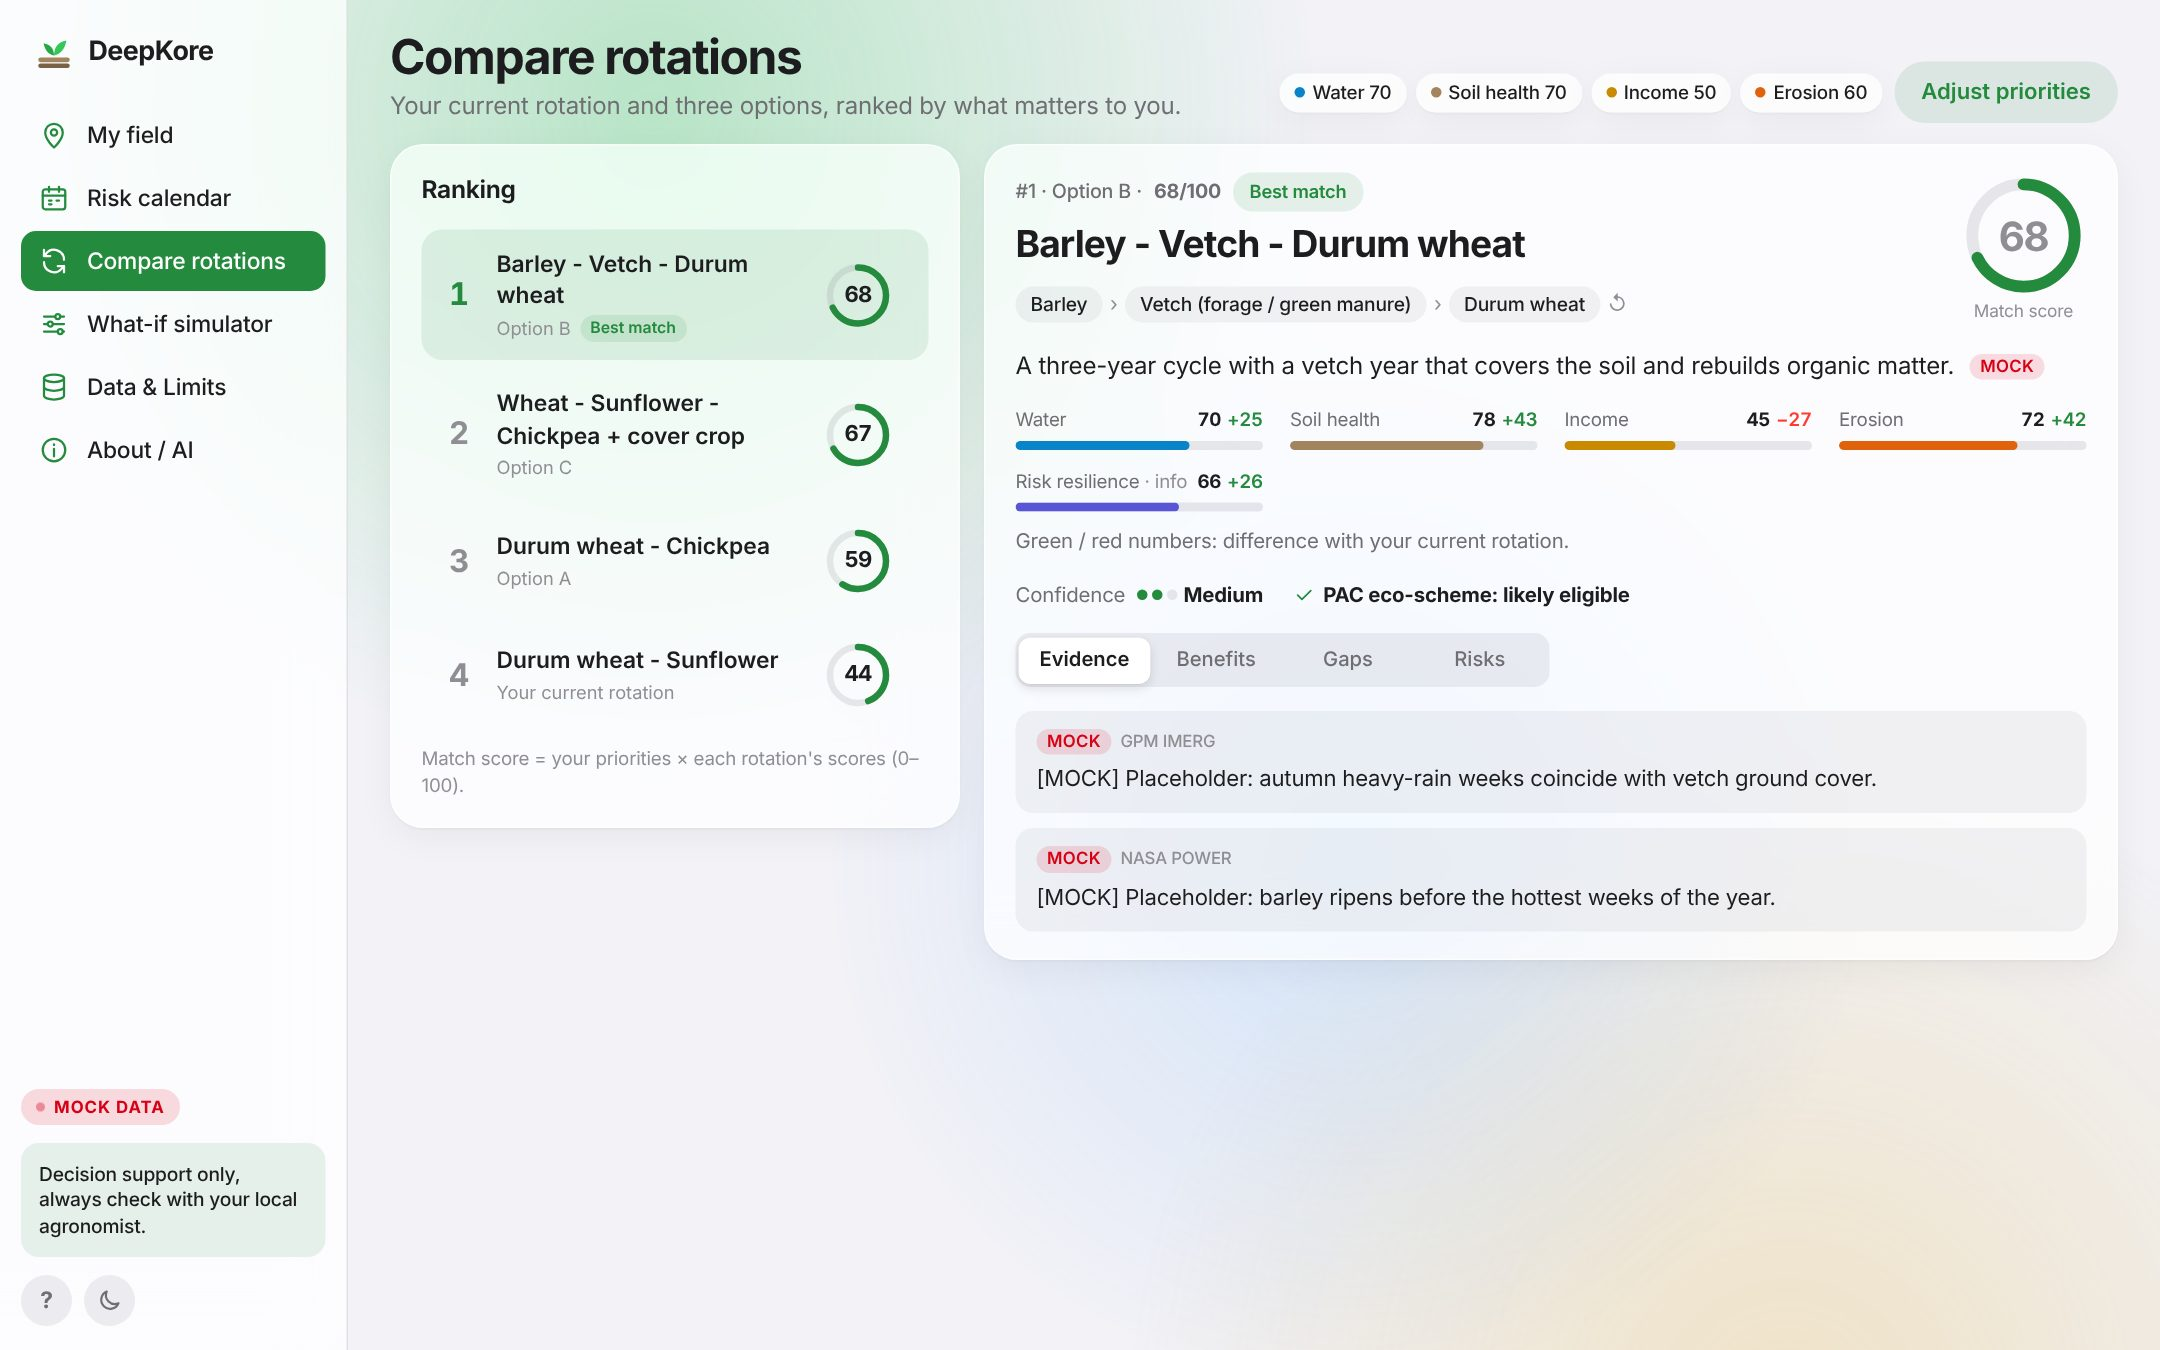
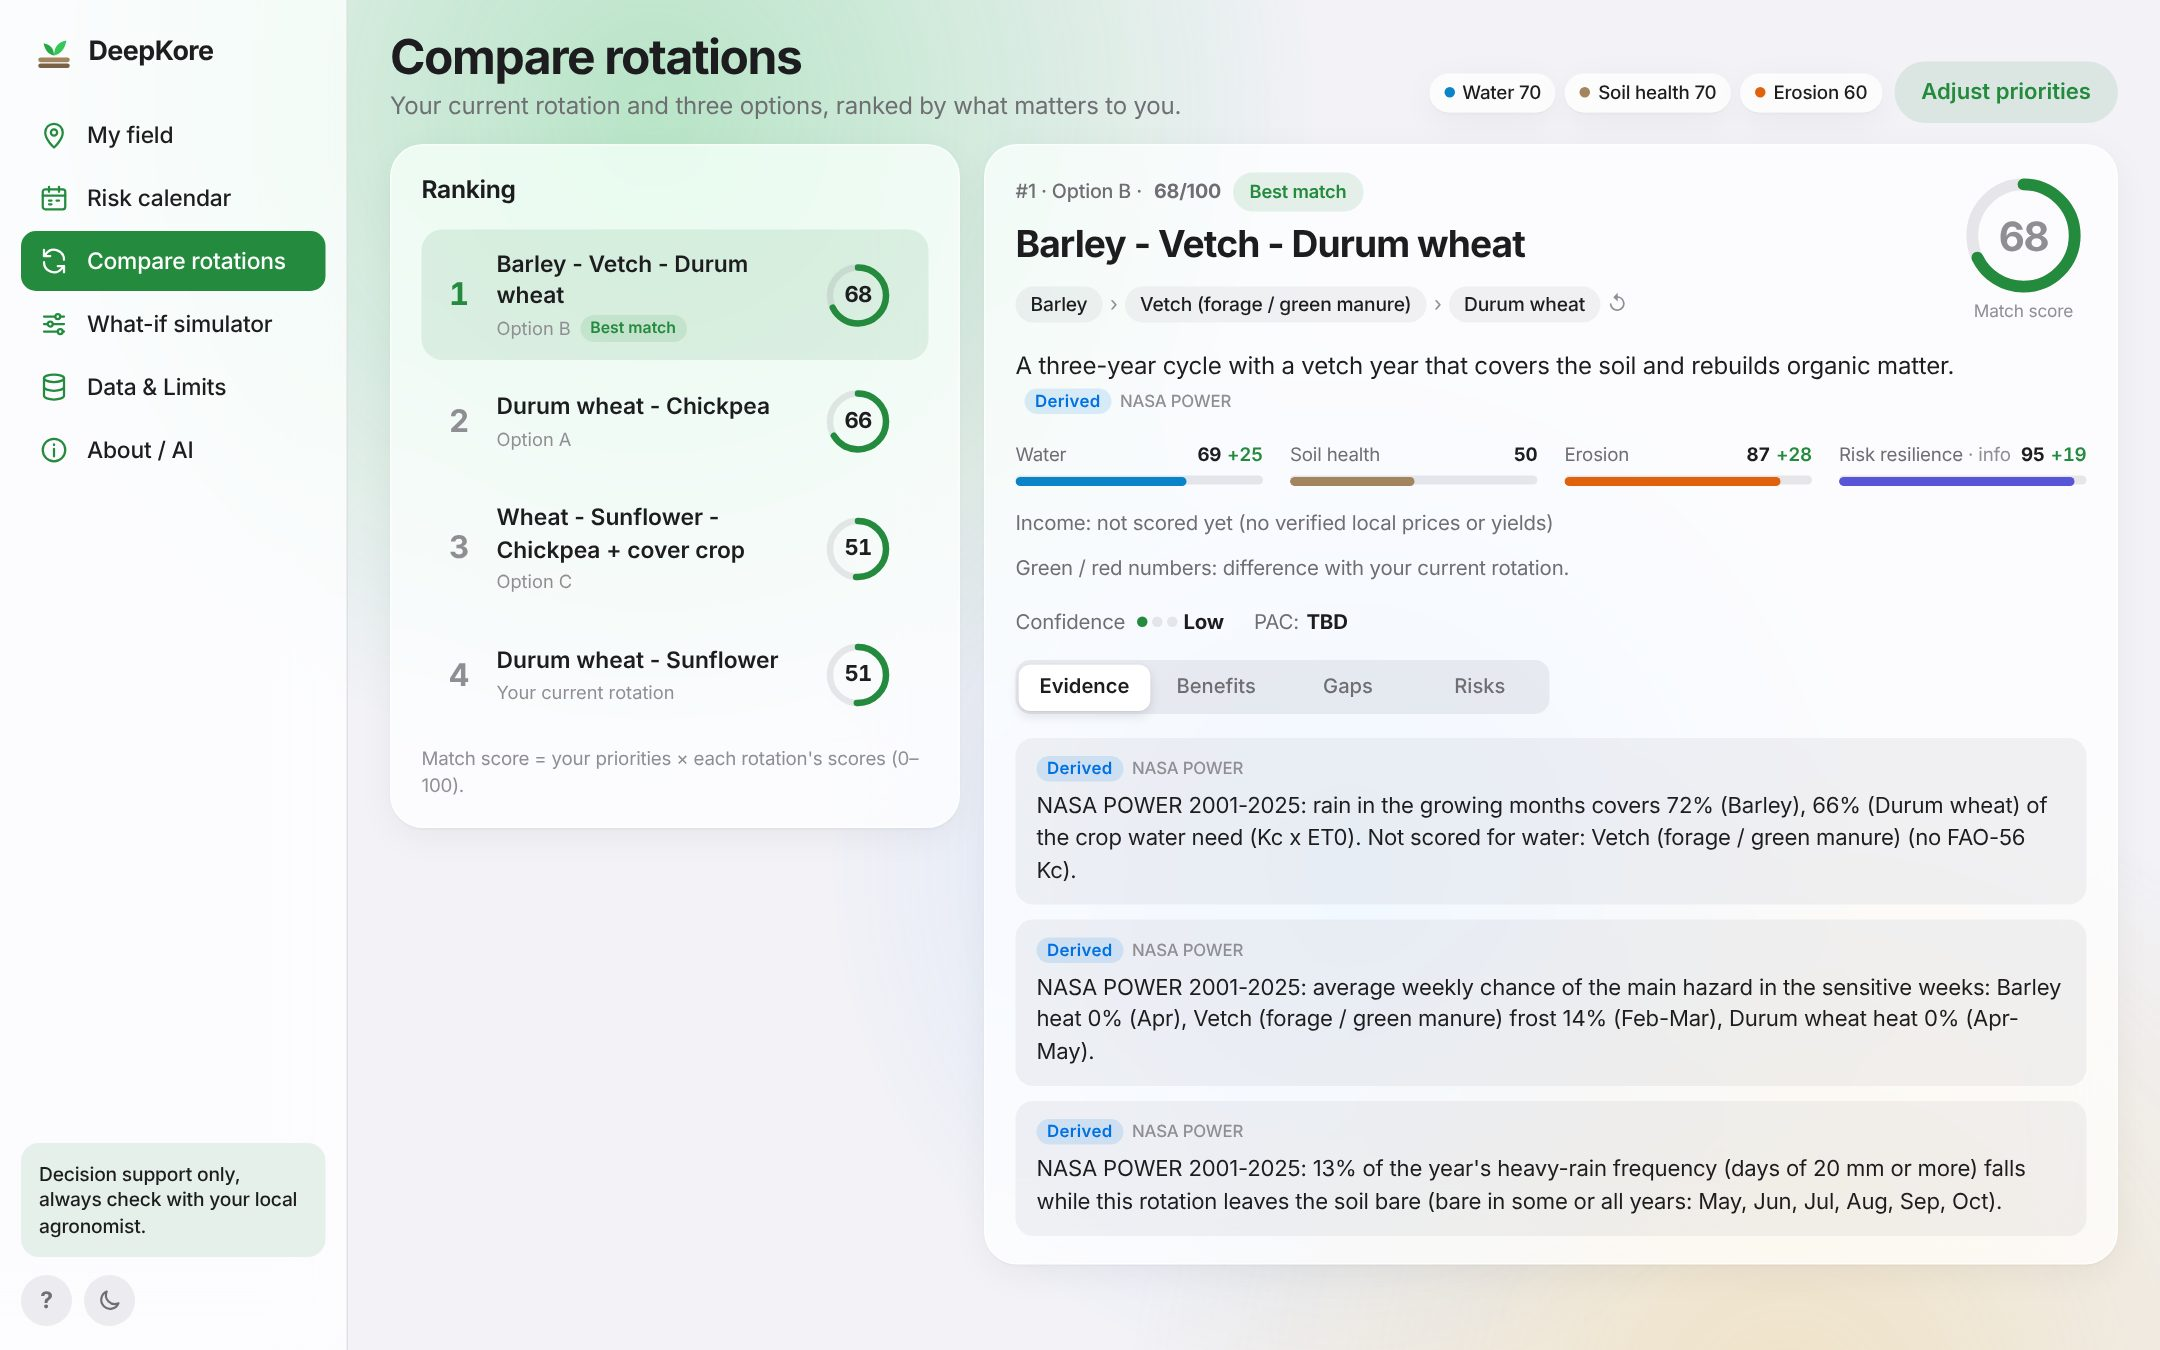
feat(pitch): real data in the result slide and screenshots
- Result slide uses the real rotations.json scores (51 -> 68 with default priorities);
  income is not scored yet, so Resilience is shown instead
- Screenshots retaken from the app running on real NASA POWER data
- Fix: 'Sample data' pill now hides when mock is false
- Script: slide 7 lines updated (income not scored yet)

Claude-Session: https://claude.ai/code/session_01D3Ytv4YFipRc5h3NFeBV3J

diff --git a/pitch/index.html b/pitch/index.html
@@ -201,6 +201,7 @@ p{margin:0}
 .bars s::before{content:'';display:block;height:100%;width:0;border-radius:9px;background:var(--k)}
 .on .bars s::before{animation:fill 1.4s cubic-bezier(.2,.8,.2,1) .9s forwards}
 @keyframes fill{to{width:var(--w)}}
+.pill[hidden]{display:none}
 .pill{display:inline-flex;align-items:center;gap:.4em;padding:.35em .8em;border-radius:999px;font:700 clamp(.66rem,.85vw,.85rem) var(--sans);background:rgba(200,100,63,.14);color:var(--clay);letter-spacing:.04em}
 .trust{margin-top:clamp(14px,1.8vw,26px);font:550 clamp(.9rem,1.25vw,1.25rem)/1.4 var(--sans);color:var(--mut)}
 .trust b{color:var(--greend)}
@@ -428,15 +429,15 @@ button:focus-visible{outline:2px solid var(--greend);outline-offset:3px}
 <script src="../vendor/qrcode/qrcode.js"></script>
 <script>
 /* ===================== Result slide data =====================
-   SAMPLE (MOCK) until the real rotations.json exists. Replace these numbers with the
-   ones shown in the app (Compare rotations) and set mock:false. */
+   Numbers copied from the app (Compare rotations) with the default priorities.
+   If data/rotations.json changes, update them here. Income is not scored yet, so it is not shown. */
 const DECK = {
   appUrl: "https://euzapus.github.io/deepkore/",
-  mock: true,
-  now:  { name: "Durum wheat – Sunflower", tag: "Your current rotation", seq: ["Durum wheat", "Sunflower"], score: 44,
-          scores: { Water: 45, Soil: 35, Income: 72, Erosion: 30 } },
+  mock: false, // real data: data/rotations.json (NASA POWER 2001-2025), default priorities (water 70, soil 70, erosion 60)
+  now:  { name: "Durum wheat – Sunflower", tag: "Your current rotation", seq: ["Durum wheat", "Sunflower"], score: 51,
+          scores: { Water: 44, Soil: 50, Erosion: 59, Resilience: 76 } },
   best: { name: "Barley – Vetch – Durum wheat", tag: "Best for your priorities", seq: ["Barley", "Vetch", "Durum wheat"], score: 68,
-          scores: { Water: 70, Soil: 78, Income: 45, Erosion: 72 } },
+          scores: { Water: 69, Soil: 50, Erosion: 87, Resilience: 95 } },
 };
 
 (function () {
@@ -446,7 +447,7 @@ const DECK = {
 
   /* ---------- result cards ---------- */
   const C = 2 * Math.PI * 26;
-  const COLORS = { Water: "#0a84c9", Soil: "#a2845e", Income: "#c98a00", Erosion: "#e0620d" };
+  const COLORS = { Water: "#0a84c9", Soil: "#a2845e", Income: "#c98a00", Erosion: "#e0620d", Resilience: "#5856d6" };
   const card = (r, cls, other) => `
     <div class="card ${cls} a" style="--i:${cls === "best" ? 4 : 2}">
       <span class="lab">${r.tag}</span>

diff --git a/pitch/GUION.md b/pitch/GUION.md
@@ -42,10 +42,11 @@ Una sola persona lleva el mando todo el pitch para no ir buscando el teclado.
 
 ## Persona 3 · El impacto y el cierre (≈40 s) · diapositivas 7–8
 
-**7 · El resultado**
-> "Este es el resultado: la mejor rotación para este agricultor gana salud del suelo y reduce la erosión,
-> a cambio de algo de dinero. Ese equilibrio lo elige él.
-> DeepKore ayuda, nunca sustituye: cada dato dice de dónde viene, con sus lagunas y riesgos."
+**7 · El resultado** *(datos reales de NASA POWER 2001-2025)*
+> "Este es el resultado con datos reales: para este agricultor, la mejor rotación sube de 51 a 68 sobre 100.
+> Aprovecha mejor el agua de lluvia, protege mucho más el suelo de la erosión y aguanta mejor el clima.
+> El dinero aún no lo puntuamos porque no tenemos precios locales verificados, y lo decimos.
+> DeepKore ayuda, nunca sustituye: cada dato dice de dónde viene."
 
 **8 · Cierre y QR**
 > "Escanead el código y probadla ahora."
@@ -55,6 +56,5 @@ Una sola persona lleva el mando todo el pitch para no ir buscando el teclado.
 
 **Ensayad con cronómetro:** 50 + 30 + 40 = 2:00. Si os pasáis, quitad primero la última frase de la diapositiva 2.
 
-**Antes de presentar:** la diapositiva 7 lleva números de ejemplo (pastilla "Sample data") y las capturas de
-`pitch/img/` son con datos MOCK. Cuando estén los datos reales, cambiar `DECK` al principio del `<script>` de
-`pitch/index.html` (poner `mock: false`) y repetir las capturas.
+**Datos:** la diapositiva 7 y las capturas de `pitch/img/` ya usan los datos reales (NASA POWER 2001-2025).
+Si cambia `data/rotations.json`, actualizar `DECK` al principio del `<script>` de `pitch/index.html` y repetir las capturas.
